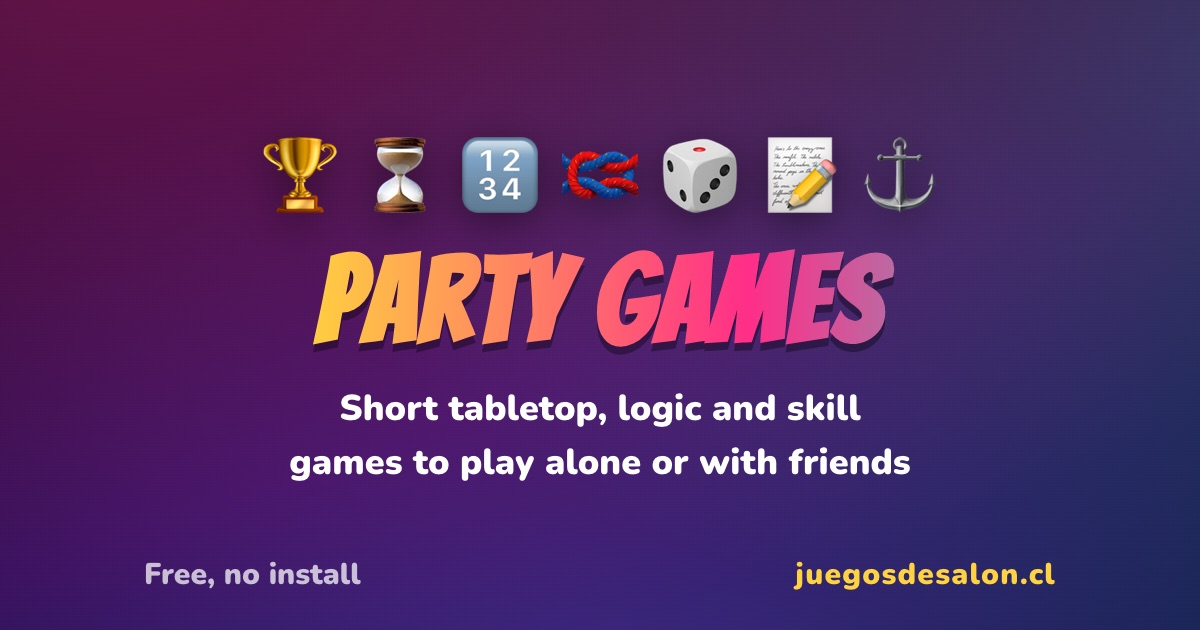
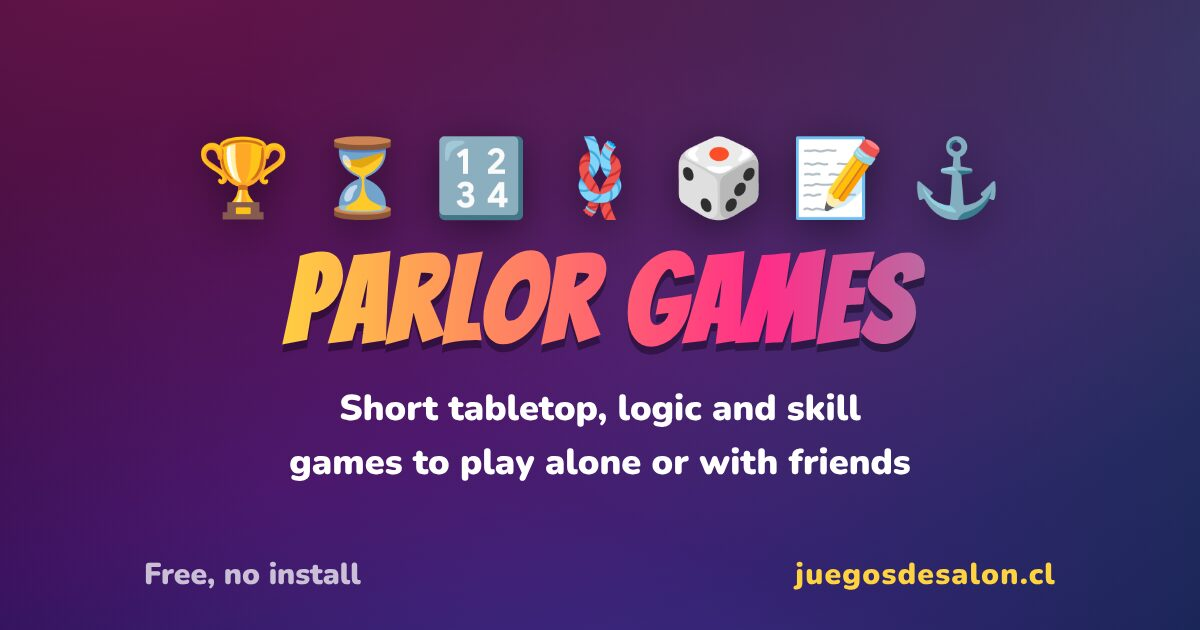
Regenerate the English link card with Parlor Games
Claude-Session: https://claude.ai/code/session_014TxuHUns92VNxaQjNinwhT

diff --git a/changelog/ccr-67ba64dd-nb295o.md b/changelog/ccr-67ba64dd-nb295o.md
@@ -1,3 +1,3 @@
 level: patch
 
-- **The English name is now Parlor Games** (was Party Games): page titles, the app name when installed, share messages, sheets and the privacy page.
+- **The English name is now Parlor Games** (was Party Games): page titles, the app name when installed, share messages, sheets, the privacy page and the English link card.
